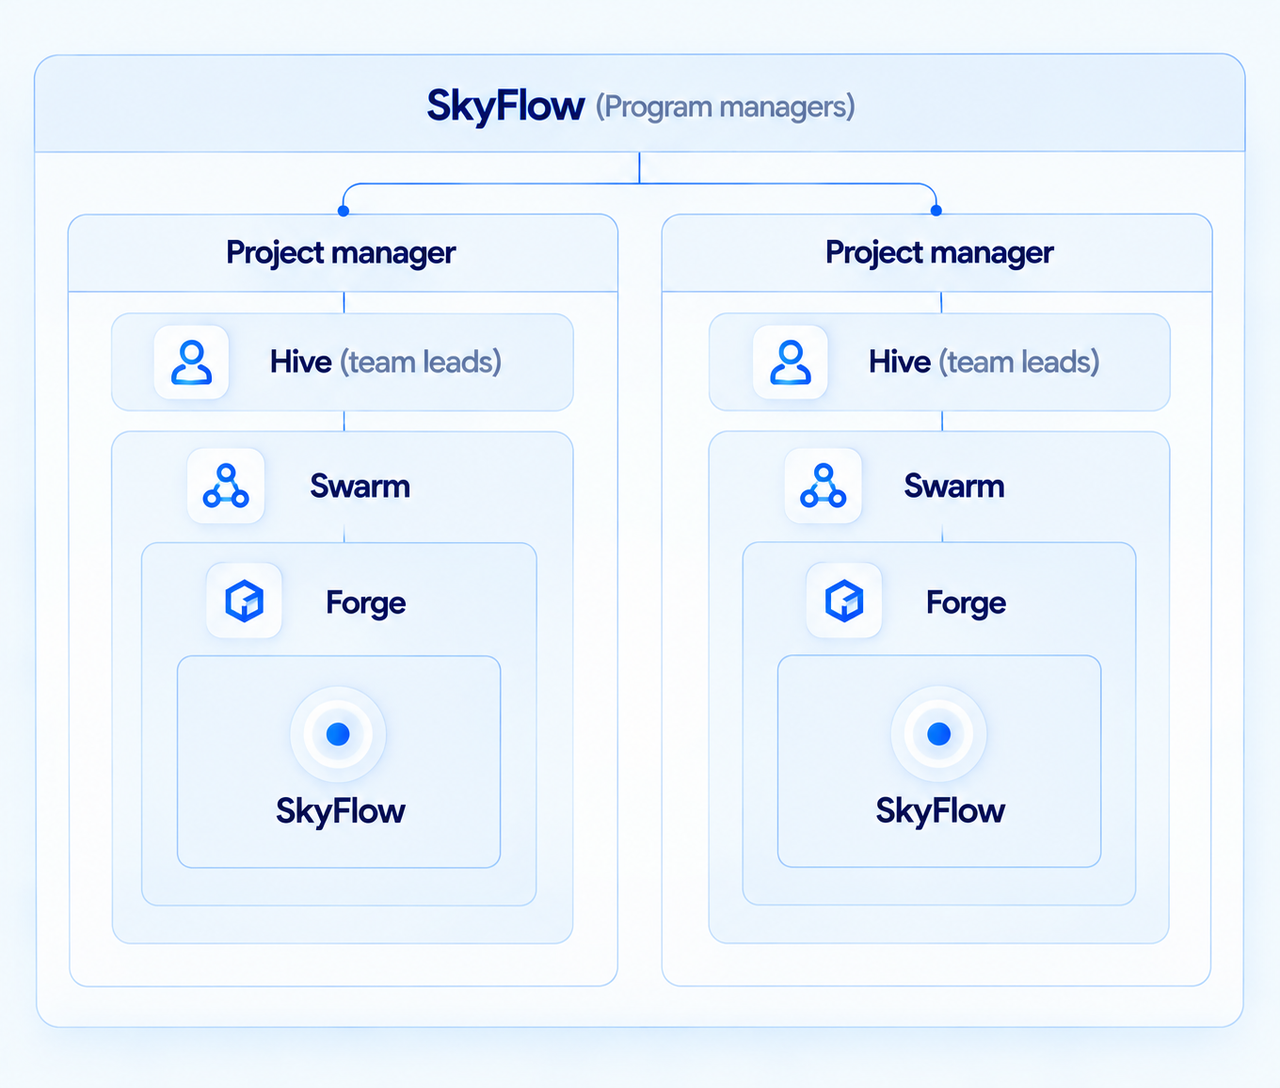
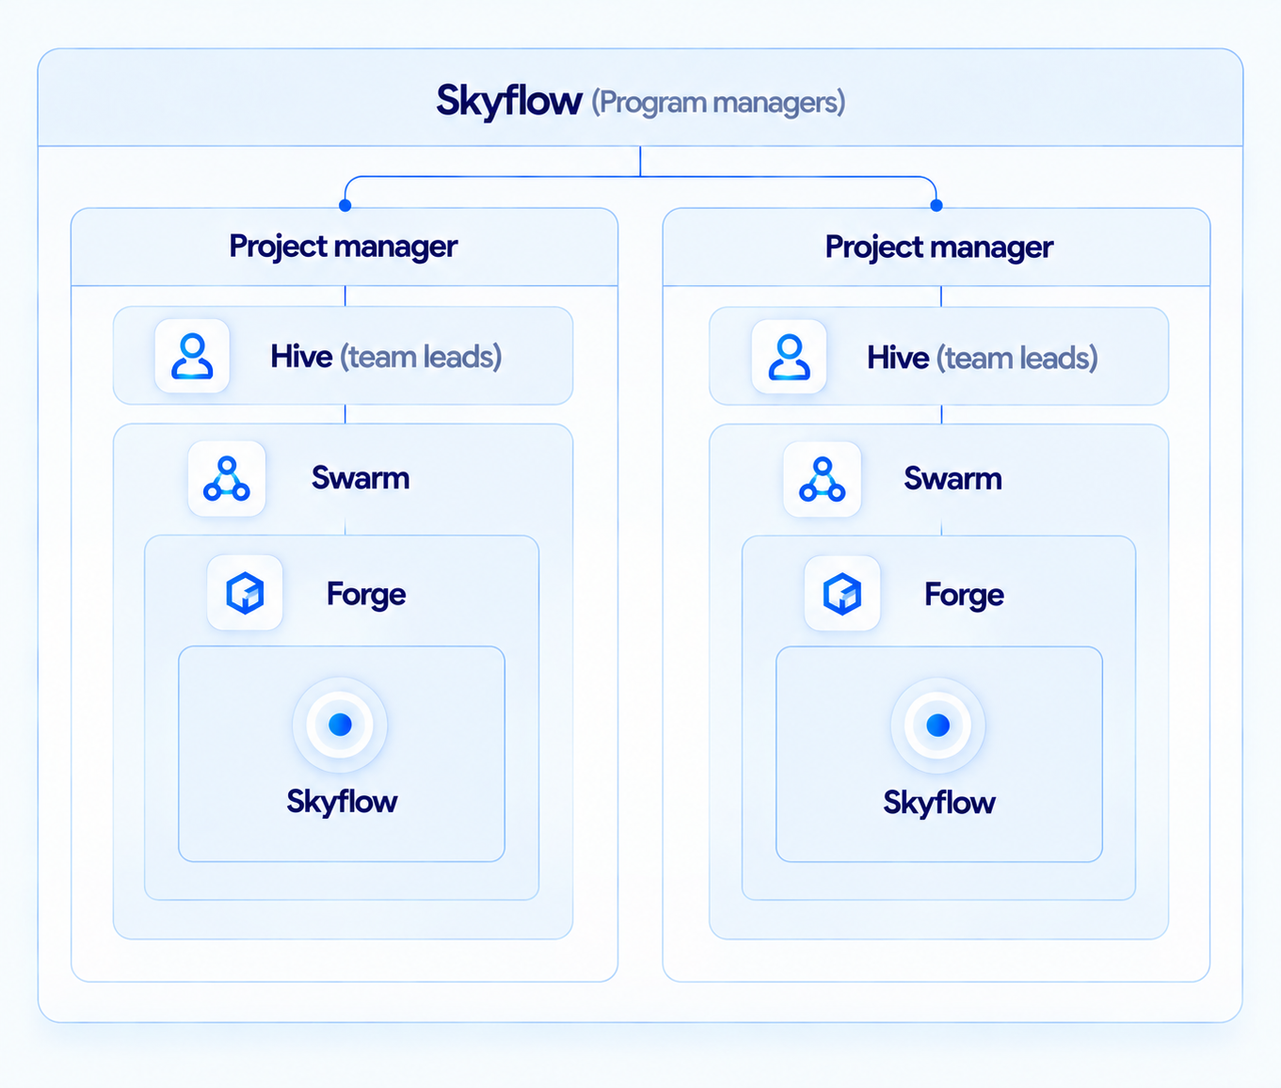
changes of skyflow

diff --git a/services.html b/services.html
@@ -6,13 +6,13 @@
   <meta name="viewport" content="width=device-width, initial-scale=1.0">
   <title>Enterprise Agentic AI Services &amp; Architecture | Skygentic AI</title>
   <meta name="description"
-    content="Explore Skygentic AI enterprise services: Forge autonomous agent creation, Swarm multi-agent orchestration, SkyFlow workflow engine, Hive RAG indexing, and NovaOps monitoring.">
+    content="Explore Skygentic AI enterprise services: Forge autonomous agent creation, Swarm multi-agent orchestration, Skyflow workflow engine, Hive RAG indexing, and NovaOps monitoring.">
   <link rel="canonical" href="https://Skygentic.ai/services.html">
 
   <!-- OpenGraph Social Cards -->
   <meta property="og:title" content="Enterprise Agentic AI Services &amp; Architecture | Skygentic AI">
   <meta property="og:description"
-    content="Explore Skygentic AI enterprise services: Forge autonomous agent creation, Swarm multi-agent orchestration, SkyFlow workflow engine, Hive RAG indexing, and NovaOps monitoring.">
+    content="Explore Skygentic AI enterprise services: Forge autonomous agent creation, Swarm multi-agent orchestration, Skyflow workflow engine, Hive RAG indexing, and NovaOps monitoring.">
   <meta property="og:type" content="website">
   <meta property="og:url" content="https://Skygentic.ai/services.html">
   <meta property="og:image" content="https://Skygentic.ai/og-image.png">
@@ -21,7 +21,7 @@
   <meta name="twitter:card" content="summary_large_image">
   <meta name="twitter:title" content="Enterprise Agentic AI Services &amp; Architecture | Skygentic AI">
   <meta name="twitter:description"
-    content="Explore Skygentic AI enterprise services: Forge autonomous agent creation, Swarm multi-agent orchestration, SkyFlow workflow engine, Hive RAG indexing, and NovaOps monitoring.">
+    content="Explore Skygentic AI enterprise services: Forge autonomous agent creation, Swarm multi-agent orchestration, Skyflow workflow engine, Hive RAG indexing, and NovaOps monitoring.">
   <meta name="twitter:image" content="https://Skygentic.ai/og-image.png">
 
   <!-- Schema.org JSON-LD Structured Data -->
@@ -55,7 +55,7 @@
             "name": "What services are included in the Skygentic AI platform?",
             "acceptedAnswer": {
               "@type": "Answer",
-              "text": "Skygentic delivers 5 core services: Forge (Autonomous Agent Creation), Swarm (Multi-Agent Orchestration), SkyFlow (Enterprise Integration Engine), Hive (Vector RAG & Knowledge Indexing), and NovaOps (Agent Governance & Telemetry)."
+              "text": "Skygentic delivers 5 core services: Forge (Autonomous Agent Creation), Swarm (Multi-Agent Orchestration), Skyflow (Enterprise Integration Engine), Hive (Vector RAG & Knowledge Indexing), and NovaOps (Agent Governance & Telemetry)."
             }
           },
           {
@@ -63,7 +63,7 @@
             "name": "How quickly can custom agent services be deployed into existing enterprise systems?",
             "acceptedAnswer": {
               "@type": "Answer",
-              "text": "Using SkyFlow pre-built connectors and Forge SDKs, production agent pipelines deploy in hours rather than months, integrating directly with Salesforce, Zendesk, HubSpot, and REST APIs."
+              "text": "Using Skyflow pre-built connectors and Forge SDKs, production agent pipelines deploy in hours rather than months, integrating directly with Salesforce, Zendesk, HubSpot, and REST APIs."
             }
           }
         ]
@@ -912,7 +912,7 @@
             <a class="service-dropdown-link" href="services.html#swarm" role="menuitem"><img class="service-icon-img"
                 src="assets/architecture/icon-swarm.png" alt="" width="32" height="32">Swarm</a>
             <a class="service-dropdown-link" href="services.html#skyflow" role="menuitem"><img class="service-icon-img"
-                src="assets/architecture/icon-skyflow.png" alt="" width="32" height="32">SkyFlow</a>
+                src="assets/architecture/icon-skyflow.png" alt="" width="32" height="32">Skyflow</a>
             <a class="service-dropdown-link" href="services.html#hive" role="menuitem"><img class="service-icon-img"
                 src="assets/architecture/icon-hive.png" alt="" width="32" height="32">Hive</a>
             <a class="service-dropdown-link" href="services.html#nova-ops" role="menuitem"><img class="service-icon-img"
@@ -997,7 +997,7 @@
               </a>
               <a class="mobile-submenu-link" href="services.html#skyflow">
                 <img class="service-icon-img" src="assets/architecture/icon-skyflow.png" alt="" width="32" height="32">
-                <span><strong>SkyFlow</strong></span>
+                <span><strong>Skyflow</strong></span>
               </a>
               <a class="mobile-submenu-link" href="services.html#hive">
                 <img class="service-icon-img" src="assets/architecture/icon-hive.png" alt="" width="32" height="32">
@@ -1052,8 +1052,8 @@
             </a>
             <a class="services-tab" href="#skyflow">
               <span class="btn-text-wrapper">
-                <span class="btn-text-slide">SkyFlow</span>
-                <span class="btn-text-slide" aria-hidden="true">SkyFlow</span>
+                <span class="btn-text-slide">Skyflow</span>
+                <span class="btn-text-slide" aria-hidden="true">Skyflow</span>
               </span>
             </a>
             <a class="services-tab" href="#hive">
@@ -1168,10 +1168,10 @@
         <article id="skyflow" class="service-panel">
           <div class="service-top-grid">
             <div class="service-copy">
-              <div class="service-kicker">SkyFlow</div>
-              <h2 class="service-heading">SkyFlow keeps every silo governed and moving.</h2>
+              <div class="service-kicker">Skyflow</div>
+              <h2 class="service-heading">Skyflow keeps every silo governed and moving.</h2>
               <p class="service-description">
-                SkyFlow adds the automation rules, guardrails and agent managers that make production work reliable. Each silo gets its own operating policy for retries, alerts, approvals, skips and escalation paths.
+                Skyflow adds the automation rules, guardrails and agent managers that make production work reliable. Each silo gets its own operating policy for retries, alerts, approvals, skips and escalation paths.
               </p>
               <div class="service-badge"><strong>Per-silo guardrails</strong></div>
             </div>
@@ -1179,12 +1179,12 @@
               <img class="service-visual-image" src="assets/services/skyflow-fit.png" alt="SkyFlow automation layer chart" loading="lazy" decoding="async">
             </div>
           </div>
-          <section class="working-principle-card" aria-labelledby="skyflow-principle-title" data-product="SkyFlow">
+          <section class="working-principle-card" aria-labelledby="skyflow-principle-title" data-product="Skyflow">
             <div class="working-principle-header">
-              <h3 id="skyflow-principle-title" class="principle-title">Working principle of SkyFlow</h3>
+              <h3 id="skyflow-principle-title" class="principle-title">Working principle of Skyflow</h3>
               <p class="principle-copy">A production path with checks, handoffs and feedback built into every stage.</p>
             </div>
-            <ol class="principle-steps" aria-label="SkyFlow working principle steps">
+            <ol class="principle-steps" aria-label="Skyflow working principle steps">
               <li class="principle-step">
                 <span class="step-num">01</span>
                 <div class="step-copy">
@@ -1365,7 +1365,7 @@
             <ul class="footer-link-list">
               <li><a href="services.html#forge" class="footer-link">Forge</a></li>
               <li><a href="services.html#swarm" class="footer-link">Swarm</a></li>
-              <li><a href="services.html#skyflow" class="footer-link">SkyFlow</a></li>
+              <li><a href="services.html#skyflow" class="footer-link">Skyflow</a></li>
               <li><a href="services.html#hive" class="footer-link">Hive</a></li>
               <li><a href="services.html#nova-ops" class="footer-link">NovaOps</a></li>
             </ul>

diff --git a/get-in-touch.html b/get-in-touch.html
@@ -144,7 +144,7 @@
             <a class="service-dropdown-link" href="services.html#swarm" role="menuitem"><img class="service-icon-img"
                 src="assets/architecture/icon-swarm.png" alt="" width="32" height="32">Swarm</a>
             <a class="service-dropdown-link" href="services.html#skyflow" role="menuitem"><img class="service-icon-img"
-                src="assets/architecture/icon-skyflow.png" alt="" width="32" height="32">SkyFlow</a>
+                src="assets/architecture/icon-skyflow.png" alt="" width="32" height="32">Skyflow</a>
             <a class="service-dropdown-link" href="services.html#hive" role="menuitem"><img class="service-icon-img"
                 src="assets/architecture/icon-hive.png" alt="" width="32" height="32">Hive</a>
             <a class="service-dropdown-link" href="services.html#nova-ops" role="menuitem"><img class="service-icon-img"
@@ -215,7 +215,7 @@
               </a>
               <a class="mobile-submenu-link" href="services.html#skyflow">
                 <img class="service-icon-img" src="assets/architecture/icon-skyflow.png" alt="" width="32" height="32">
-                <span><strong>SkyFlow</strong></span>
+                <span><strong>Skyflow</strong></span>
               </a>
               <a class="mobile-submenu-link" href="services.html#hive">
                 <img class="service-icon-img" src="assets/architecture/icon-hive.png" alt="" width="32" height="32">
@@ -253,7 +253,7 @@
         <p class="contact-lead">Partner with Skygentic AI to automate operations, build intelligent solutions and accelerate your business growth. Let's discuss how we can turn your vision into reality.</p>
         <div class="contact-info">
           <div class="contact-info-card"><h2>Response Time</h2><p>Within 1 Business Day</p></div>
-          <div class="contact-info-card"><h2>Enterprise Services</h2><ul><li>Forge</li><li>Swarm</li><li>Hive</li><li>SkyFlow</li><li>NovaOps</li></ul></div>
+          <div class="contact-info-card"><h2>Enterprise Services</h2><ul><li>Forge</li><li>Swarm</li><li>Hive</li><li>Skyflow</li><li>NovaOps</li></ul></div>
         </div>
       </div>
       <form id="contact-form" class="contact-form contact-reveal" aria-label="Request a consultation">
@@ -297,7 +297,7 @@
             <ul class="footer-link-list">
               <li><a href="services.html#forge" class="footer-link">Forge</a></li>
               <li><a href="services.html#swarm" class="footer-link">Swarm</a></li>
-              <li><a href="services.html#skyflow" class="footer-link">SkyFlow</a></li>
+              <li><a href="services.html#skyflow" class="footer-link">Skyflow</a></li>
               <li><a href="services.html#hive" class="footer-link">Hive</a></li>
               <li><a href="services.html#nova-ops" class="footer-link">NovaOps</a></li>
             </ul>

diff --git a/index.html b/index.html
@@ -111,7 +111,7 @@
             <a class="service-dropdown-link" href="services.html#swarm" role="menuitem"><img class="service-icon-img"
                 src="assets/architecture/icon-swarm.png" alt="" width="32" height="32">Swarm</a>
             <a class="service-dropdown-link" href="services.html#skyflow" role="menuitem"><img class="service-icon-img"
-                src="assets/architecture/icon-skyflow.png" alt="" width="32" height="32">SkyFlow</a>
+                src="assets/architecture/icon-skyflow.png" alt="" width="32" height="32">Skyflow</a>
             <a class="service-dropdown-link" href="services.html#hive" role="menuitem"><img class="service-icon-img"
                 src="assets/architecture/icon-hive.png" alt="" width="32" height="32">Hive</a>
             <a class="service-dropdown-link" href="services.html#nova-ops" role="menuitem"><img class="service-icon-img"
@@ -182,7 +182,7 @@
               </a>
               <a class="mobile-submenu-link" href="services.html#skyflow">
                 <img class="service-icon-img" src="assets/architecture/icon-skyflow.png" alt="" width="32" height="32">
-                <span><strong>SkyFlow</strong></span>
+                <span><strong>Skyflow</strong></span>
               </a>
               <a class="mobile-submenu-link" href="services.html#hive">
                 <img class="service-icon-img" src="assets/architecture/icon-hive.png" alt="" width="32" height="32">
@@ -533,7 +533,7 @@
               <h3 class="bento-card-title">Sky Flow</h3>
               <p class="bento-card-desc">Every silo carries its own guardrails and an agent manager watching for
                 failures retrying, alerting or skipping work as the rules dictate.</p>
-              <a href="services.html#skyflow" class="bento-card-action-link" aria-label="Explore SkyFlow service">
+              <a href="services.html#skyflow" class="bento-card-action-link" aria-label="Explore Skyflow service">
                 <span>Explore More</span>
                 <div class="bento-action-bubble" aria-hidden="true">
                   <svg width="10" height="10" viewBox="0 0 24 24" fill="none" stroke="currentColor" stroke-width="3">
@@ -1111,7 +1111,7 @@
             <ul class="footer-link-list">
               <li><a href="services.html#forge" class="footer-link">Forge</a></li>
               <li><a href="services.html#swarm" class="footer-link">Swarm</a></li>
-              <li><a href="services.html#skyflow" class="footer-link">SkyFlow</a></li>
+              <li><a href="services.html#skyflow" class="footer-link">Skyflow</a></li>
               <li><a href="services.html#hive" class="footer-link">Hive</a></li>
               <li><a href="services.html#nova-ops" class="footer-link">NovaOps</a></li>
             </ul>

diff --git a/about.html b/about.html
@@ -450,7 +450,7 @@
             <a class="service-dropdown-link" href="services.html#swarm" role="menuitem"><img class="service-icon-img"
                 src="assets/architecture/icon-swarm.png" alt="" width="32" height="32">Swarm</a>
             <a class="service-dropdown-link" href="services.html#skyflow" role="menuitem"><img class="service-icon-img"
-                src="assets/architecture/icon-skyflow.png" alt="" width="32" height="32">SkyFlow</a>
+                src="assets/architecture/icon-skyflow.png" alt="" width="32" height="32">Skyflow</a>
             <a class="service-dropdown-link" href="services.html#hive" role="menuitem"><img class="service-icon-img"
                 src="assets/architecture/icon-hive.png" alt="" width="32" height="32">Hive</a>
             <a class="service-dropdown-link" href="services.html#nova-ops" role="menuitem"><img class="service-icon-img"
@@ -522,7 +522,7 @@
               </a>
               <a class="mobile-submenu-link" href="services.html#skyflow">
                 <img class="service-icon-img" src="assets/architecture/icon-skyflow.png" alt="" width="32" height="32">
-                <span><strong>SkyFlow</strong></span>
+                <span><strong>Skyflow</strong></span>
               </a>
               <a class="mobile-submenu-link" href="services.html#hive">
                 <img class="service-icon-img" src="assets/architecture/icon-hive.png" alt="" width="32" height="32">
@@ -624,7 +624,7 @@
                 style="font:500 1.25rem/1.2 var(--font-family-display);color:var(--color-primary-blue);opacity:.16;transition:opacity var(--transition-normal);flex-shrink:0;">2</span>
             </div>
             <p class="bento-card-desc" style="margin:0;">
-              Forge creates agents, Swarm groups them into purpose-built silos, SkyFlow governs automation, Hive gives
+              Forge creates agents, Swarm groups them into purpose-built silos, Skyflow governs automation, Hive gives
               teams a live command view and NovaOps supports enterprise scale.
             </p>
           </article>
@@ -690,7 +690,7 @@
             <ul class="footer-link-list">
               <li><a href="services.html#forge" class="footer-link">Forge</a></li>
               <li><a href="services.html#swarm" class="footer-link">Swarm</a></li>
-              <li><a href="services.html#skyflow" class="footer-link">SkyFlow</a></li>
+              <li><a href="services.html#skyflow" class="footer-link">Skyflow</a></li>
               <li><a href="services.html#hive" class="footer-link">Hive</a></li>
               <li><a href="services.html#nova-ops" class="footer-link">NovaOps</a></li>
             </ul>

diff --git a/terms.html b/terms.html
@@ -89,7 +89,7 @@
             <a class="service-dropdown-link" href="services.html#swarm" role="menuitem"><img class="service-icon-img"
                 src="assets/architecture/icon-swarm.png" alt="" width="32" height="32">Swarm</a>
             <a class="service-dropdown-link" href="services.html#skyflow" role="menuitem"><img class="service-icon-img"
-                src="assets/architecture/icon-skyflow.png" alt="" width="32" height="32">SkyFlow</a>
+                src="assets/architecture/icon-skyflow.png" alt="" width="32" height="32">Skyflow</a>
             <a class="service-dropdown-link" href="services.html#hive" role="menuitem"><img class="service-icon-img"
                 src="assets/architecture/icon-hive.png" alt="" width="32" height="32">Hive</a>
             <a class="service-dropdown-link" href="services.html#nova-ops" role="menuitem"><img class="service-icon-img"
@@ -160,7 +160,7 @@
               </a>
               <a class="mobile-submenu-link" href="services.html#skyflow">
                 <img class="service-icon-img" src="assets/architecture/icon-skyflow.png" alt="" width="32" height="32">
-                <span><strong>SkyFlow</strong></span>
+                <span><strong>Skyflow</strong></span>
               </a>
               <a class="mobile-submenu-link" href="services.html#hive">
                 <img class="service-icon-img" src="assets/architecture/icon-hive.png" alt="" width="32" height="32">
@@ -472,7 +472,7 @@
             <span class="terms-hero__rule" aria-hidden="true"></span>
             <p class="terms-hero__intro">
               These Terms of Service explain how you may access and use Skygentic AI's website, products, services,
-              software, APIs, and related offerings. By using the Services, you agree to these Terms. If you do not
+              software, APIs and related offerings. By using the Services, you agree to these Terms. If you do not
               agree, you may not use the Services.
             </p>
           </div>
@@ -674,7 +674,7 @@
             <ul class="footer-link-list">
               <li><a href="services.html#forge" class="footer-link">Forge</a></li>
               <li><a href="services.html#swarm" class="footer-link">Swarm</a></li>
-              <li><a href="services.html#skyflow" class="footer-link">SkyFlow</a></li>
+              <li><a href="services.html#skyflow" class="footer-link">Skyflow</a></li>
               <li><a href="services.html#hive" class="footer-link">Hive</a></li>
               <li><a href="services.html#nova-ops" class="footer-link">NovaOps</a></li>
             </ul>

diff --git a/privacy.html b/privacy.html
@@ -122,7 +122,7 @@
             <a class="service-dropdown-link" href="services.html#swarm" role="menuitem"><img class="service-icon-img"
                 src="assets/architecture/icon-swarm.png" alt="" width="32" height="32">Swarm</a>
             <a class="service-dropdown-link" href="services.html#skyflow" role="menuitem"><img class="service-icon-img"
-                src="assets/architecture/icon-skyflow.png" alt="" width="32" height="32">SkyFlow</a>
+                src="assets/architecture/icon-skyflow.png" alt="" width="32" height="32">Skyflow</a>
             <a class="service-dropdown-link" href="services.html#hive" role="menuitem"><img class="service-icon-img"
                 src="assets/architecture/icon-hive.png" alt="" width="32" height="32">Hive</a>
             <a class="service-dropdown-link" href="services.html#nova-ops" role="menuitem"><img class="service-icon-img"
@@ -193,7 +193,7 @@
               </a>
               <a class="mobile-submenu-link" href="services.html#skyflow">
                 <img class="service-icon-img" src="assets/architecture/icon-skyflow.png" alt="" width="32" height="32">
-                <span><strong>SkyFlow</strong></span>
+                <span><strong>Skyflow</strong></span>
               </a>
               <a class="mobile-submenu-link" href="services.html#hive">
                 <img class="service-icon-img" src="assets/architecture/icon-hive.png" alt="" width="32" height="32">
@@ -296,7 +296,7 @@
             <ul class="footer-link-list">
               <li><a href="services.html#forge" class="footer-link">Forge</a></li>
               <li><a href="services.html#swarm" class="footer-link">Swarm</a></li>
-              <li><a href="services.html#skyflow" class="footer-link">SkyFlow</a></li>
+              <li><a href="services.html#skyflow" class="footer-link">Skyflow</a></li>
               <li><a href="services.html#hive" class="footer-link">Hive</a></li>
               <li><a href="services.html#nova-ops" class="footer-link">NovaOps</a></li>
             </ul>

diff --git a/resources.html b/resources.html
@@ -108,7 +108,7 @@
             <a class="service-dropdown-link" href="services.html#swarm" role="menuitem"><img class="service-icon-img"
                 src="assets/architecture/icon-swarm.png" alt="" width="32" height="32">Swarm</a>
             <a class="service-dropdown-link" href="services.html#skyflow" role="menuitem"><img class="service-icon-img"
-                src="assets/architecture/icon-skyflow.png" alt="" width="32" height="32">SkyFlow</a>
+                src="assets/architecture/icon-skyflow.png" alt="" width="32" height="32">Skyflow</a>
             <a class="service-dropdown-link" href="services.html#hive" role="menuitem"><img class="service-icon-img"
                 src="assets/architecture/icon-hive.png" alt="" width="32" height="32">Hive</a>
             <a class="service-dropdown-link" href="services.html#nova-ops" role="menuitem"><img class="service-icon-img"
@@ -179,7 +179,7 @@
               </a>
               <a class="mobile-submenu-link" href="services.html#skyflow">
                 <img class="service-icon-img" src="assets/architecture/icon-skyflow.png" alt="" width="32" height="32">
-                <span><strong>SkyFlow</strong></span>
+                <span><strong>Skyflow</strong></span>
               </a>
               <a class="mobile-submenu-link" href="services.html#hive">
                 <img class="service-icon-img" src="assets/architecture/icon-hive.png" alt="" width="32" height="32">
@@ -757,7 +757,7 @@
             <ul class="footer-link-list">
               <li><a href="services.html#forge" class="footer-link">Forge</a></li>
               <li><a href="services.html#swarm" class="footer-link">Swarm</a></li>
-              <li><a href="services.html#skyflow" class="footer-link">SkyFlow</a></li>
+              <li><a href="services.html#skyflow" class="footer-link">Skyflow</a></li>
               <li><a href="services.html#hive" class="footer-link">Hive</a></li>
               <li><a href="services.html#nova-ops" class="footer-link">NovaOps</a></li>
             </ul>

diff --git a/schedule-demo.html b/schedule-demo.html
@@ -204,7 +204,7 @@
             <a class="service-dropdown-link" href="services.html#swarm" role="menuitem"><img class="service-icon-img"
                 src="assets/architecture/icon-swarm.png" alt="" width="32" height="32">Swarm</a>
             <a class="service-dropdown-link" href="services.html#skyflow" role="menuitem"><img class="service-icon-img"
-                src="assets/architecture/icon-skyflow.png" alt="" width="32" height="32">SkyFlow</a>
+                src="assets/architecture/icon-skyflow.png" alt="" width="32" height="32">Skyflow</a>
             <a class="service-dropdown-link" href="services.html#hive" role="menuitem"><img class="service-icon-img"
                 src="assets/architecture/icon-hive.png" alt="" width="32" height="32">Hive</a>
             <a class="service-dropdown-link" href="services.html#nova-ops" role="menuitem"><img class="service-icon-img"
@@ -275,7 +275,7 @@
               </a>
               <a class="mobile-submenu-link" href="services.html#skyflow">
                 <img class="service-icon-img" src="assets/architecture/icon-skyflow.png" alt="" width="32" height="32">
-                <span><strong>SkyFlow</strong></span>
+                <span><strong>Skyflow</strong></span>
               </a>
               <a class="mobile-submenu-link" href="services.html#hive">
                 <img class="service-icon-img" src="assets/architecture/icon-hive.png" alt="" width="32" height="32">
@@ -348,7 +348,7 @@
             <ul class="footer-link-list">
               <li><a href="services.html#forge" class="footer-link">Forge</a></li>
               <li><a href="services.html#swarm" class="footer-link">Swarm</a></li>
-              <li><a href="services.html#skyflow" class="footer-link">SkyFlow</a></li>
+              <li><a href="services.html#skyflow" class="footer-link">Skyflow</a></li>
               <li><a href="services.html#hive" class="footer-link">Hive</a></li>
               <li><a href="services.html#nova-ops" class="footer-link">NovaOps</a></li>
             </ul>
